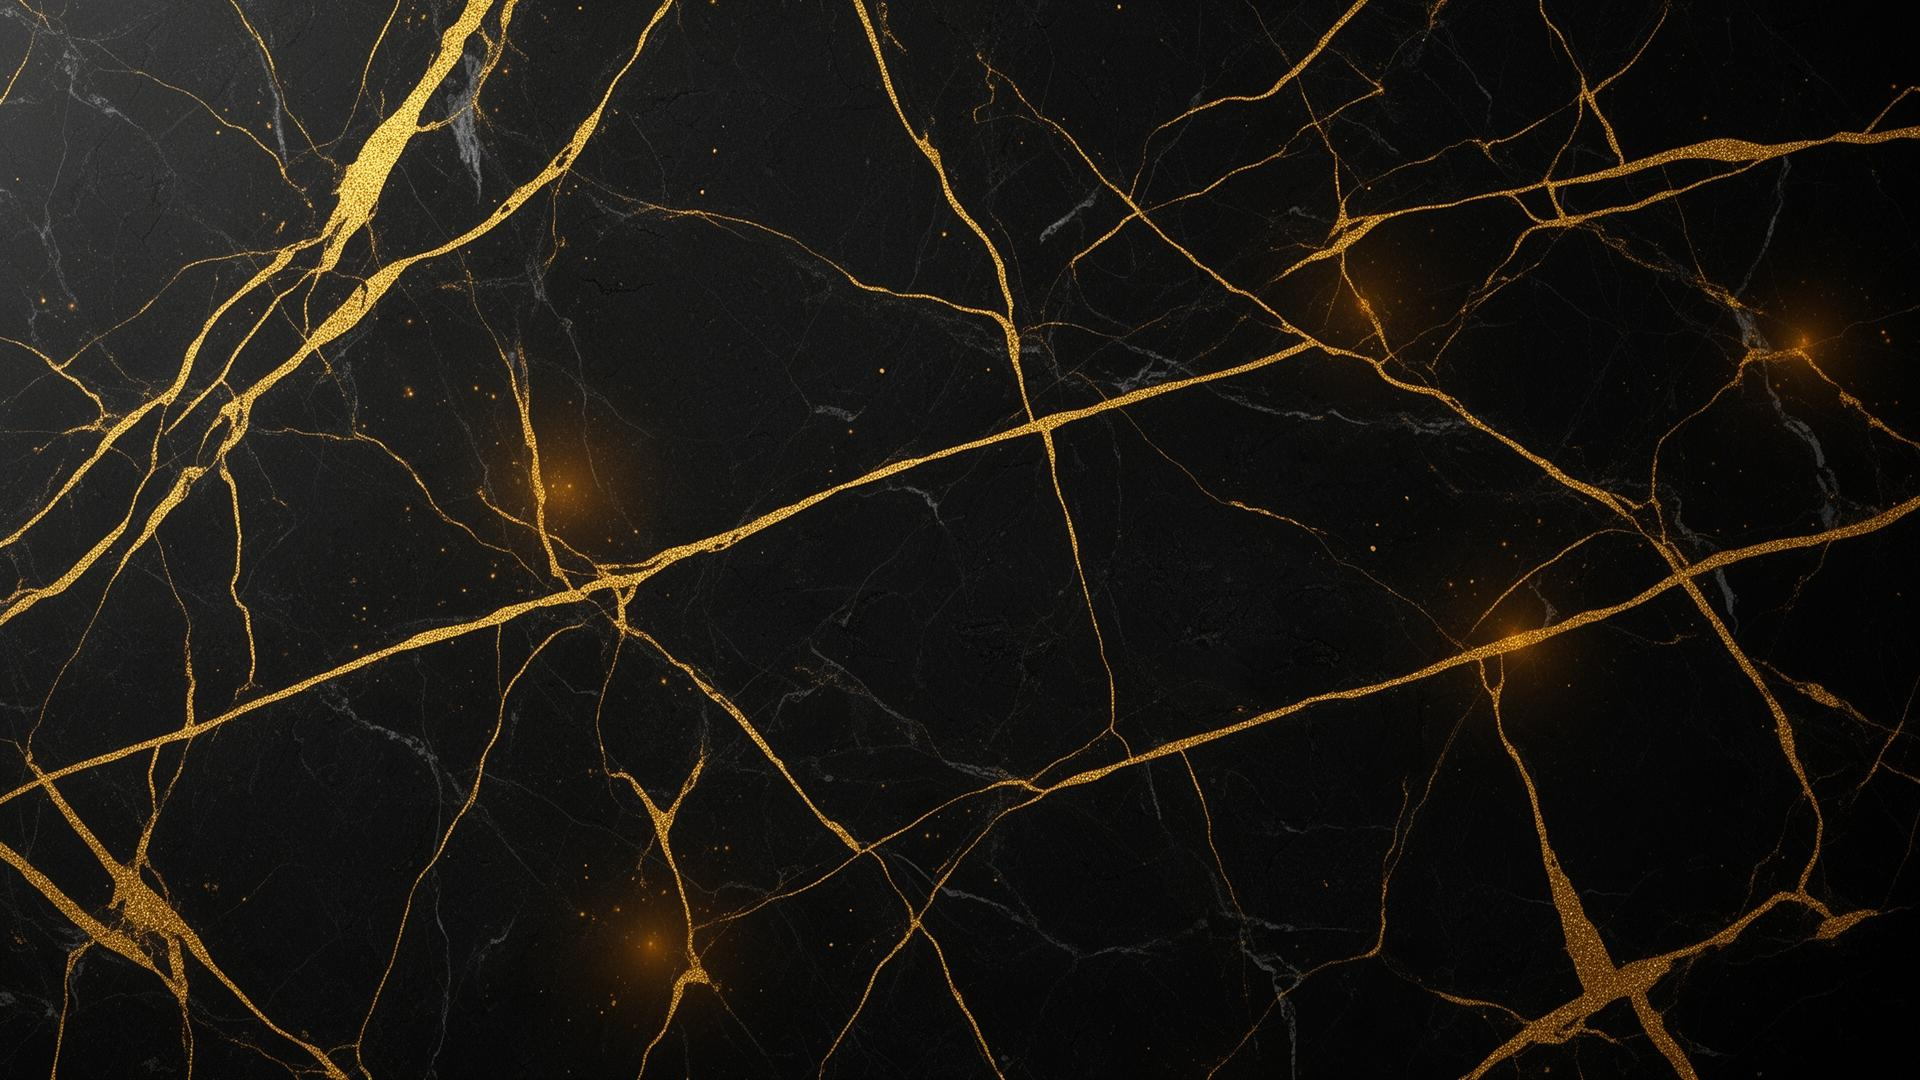
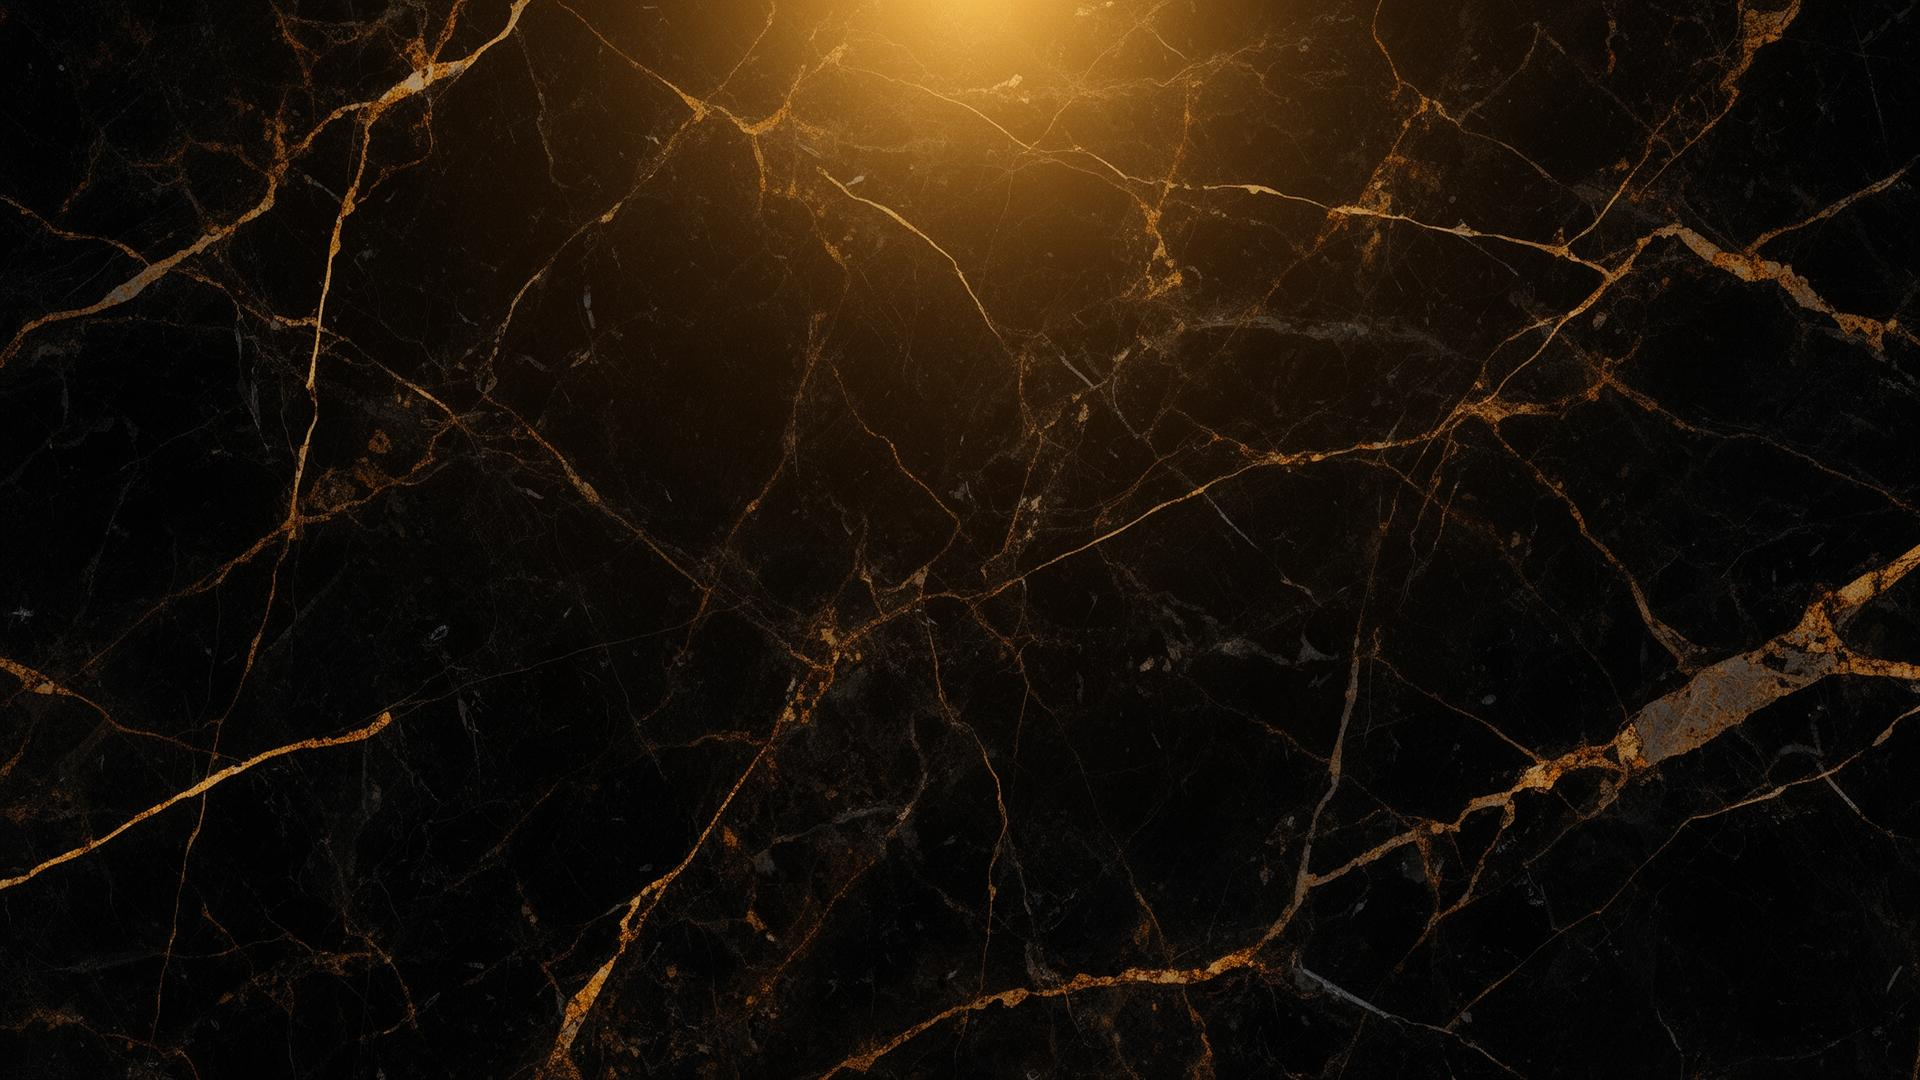
Changes

diff --git a/src/pages/LoginPage.tsx b/src/pages/LoginPage.tsx
@@ -2,8 +2,6 @@ import { useState } from "react";
 import { useAuth } from "@/hooks/useAuth";
 import { Navigate } from "react-router-dom";
 import { supabase } from "@/integrations/supabase/client";
-import { Button } from "@/components/ui/button";
-import { Input } from "@/components/ui/input";
 import { Loader2, ArrowLeft, User, Lock } from "lucide-react";
 import marbleBg from "@/assets/marble-bg.jpg";
 import marliLogo from "@/assets/marli-login-logo.png";
@@ -59,29 +57,27 @@ const LoginPage = () => {
 
   return (
     <div
-      className="min-h-screen flex flex-col items-center justify-center px-4 relative overflow-hidden"
+      className="min-h-screen flex flex-col items-center justify-center px-4 overflow-hidden bg-black"
       style={{
         backgroundImage: `url(${marbleBg})`,
         backgroundSize: "cover",
         backgroundPosition: "center",
       }}
     >
-      {/* Overlay for depth */}
-      <div className="absolute inset-0 bg-black/30" />
+      {/* Logo - uses screen blend to make black bg transparent */}
+      <div
+        className="w-80 h-auto mb-8"
+        style={{ mixBlendMode: "screen" }}
+      >
+        <img
+          src={marliLogo}
+          alt="Marli Cosméticos"
+          className="w-full h-auto"
+        />
+      </div>
 
-      {/* Content */}
-      <div className="relative z-10 flex flex-col items-center w-full max-w-md">
-        {/* Logo */}
-        <div className="mb-10 flex flex-col items-center relative">
-          {/* Golden glow behind logo */}
-          <div className="absolute top-1/2 left-1/2 -translate-x-1/2 -translate-y-1/2 w-72 h-72 rounded-full bg-[#c9a55a]/15 blur-3xl" />
-          <img
-            src={marliLogo}
-            alt="Marli Cosméticos"
-            className="w-72 h-auto relative z-10 drop-shadow-[0_0_30px_rgba(201,165,90,0.3)]"
-          />
-        </div>
-
+      {/* Form */}
+      <div className="w-full max-w-md">
         {forgotMode ? (
           forgotSent ? (
             <div className="w-full space-y-4 text-center">
@@ -131,7 +127,6 @@ const LoginPage = () => {
           )
         ) : (
           <form onSubmit={handleSubmit} className="w-full space-y-5">
-            {/* Email */}
             <div className="relative">
               <User className="absolute left-4 top-1/2 -translate-y-1/2 w-4 h-4 text-[#c9a55a]/60" />
               <input
@@ -143,8 +138,6 @@ const LoginPage = () => {
                 className="w-full pl-12 pr-4 py-3.5 rounded-md bg-black/50 border border-[#c9a55a]/30 text-[#c9a55a] placeholder:text-[#c9a55a]/40 focus:outline-none focus:border-[#c9a55a]/70 transition-colors"
               />
             </div>
-
-            {/* Password */}
             <div className="relative">
               <Lock className="absolute left-4 top-1/2 -translate-y-1/2 w-4 h-4 text-[#c9a55a]/60" />
               <input
@@ -156,10 +149,7 @@ const LoginPage = () => {
                 className="w-full pl-12 pr-4 py-3.5 rounded-md bg-black/50 border border-[#c9a55a]/30 text-[#c9a55a] placeholder:text-[#c9a55a]/40 focus:outline-none focus:border-[#c9a55a]/70 transition-colors"
               />
             </div>
-
             {error && <p className="text-sm text-red-400">{error}</p>}
-
-            {/* Submit */}
             <button
               type="submit"
               disabled={submitting}
@@ -170,8 +160,6 @@ const LoginPage = () => {
             >
               {submitting ? <Loader2 className="w-4 h-4 animate-spin mx-auto" /> : "Entrar"}
             </button>
-
-            {/* Forgot */}
             <div className="text-center">
               <button
                 type="button"
@@ -186,7 +174,7 @@ const LoginPage = () => {
       </div>
 
       {/* Powered by */}
-      <div className="absolute bottom-8 flex items-center gap-3 z-10">
+      <div className="absolute bottom-4 flex items-center gap-3">
         <span className="text-base font-medium text-[#c9a55a]/40">powered by</span>
         <img src={placeLogo} alt="Place" className="h-10 opacity-40" />
       </div>
